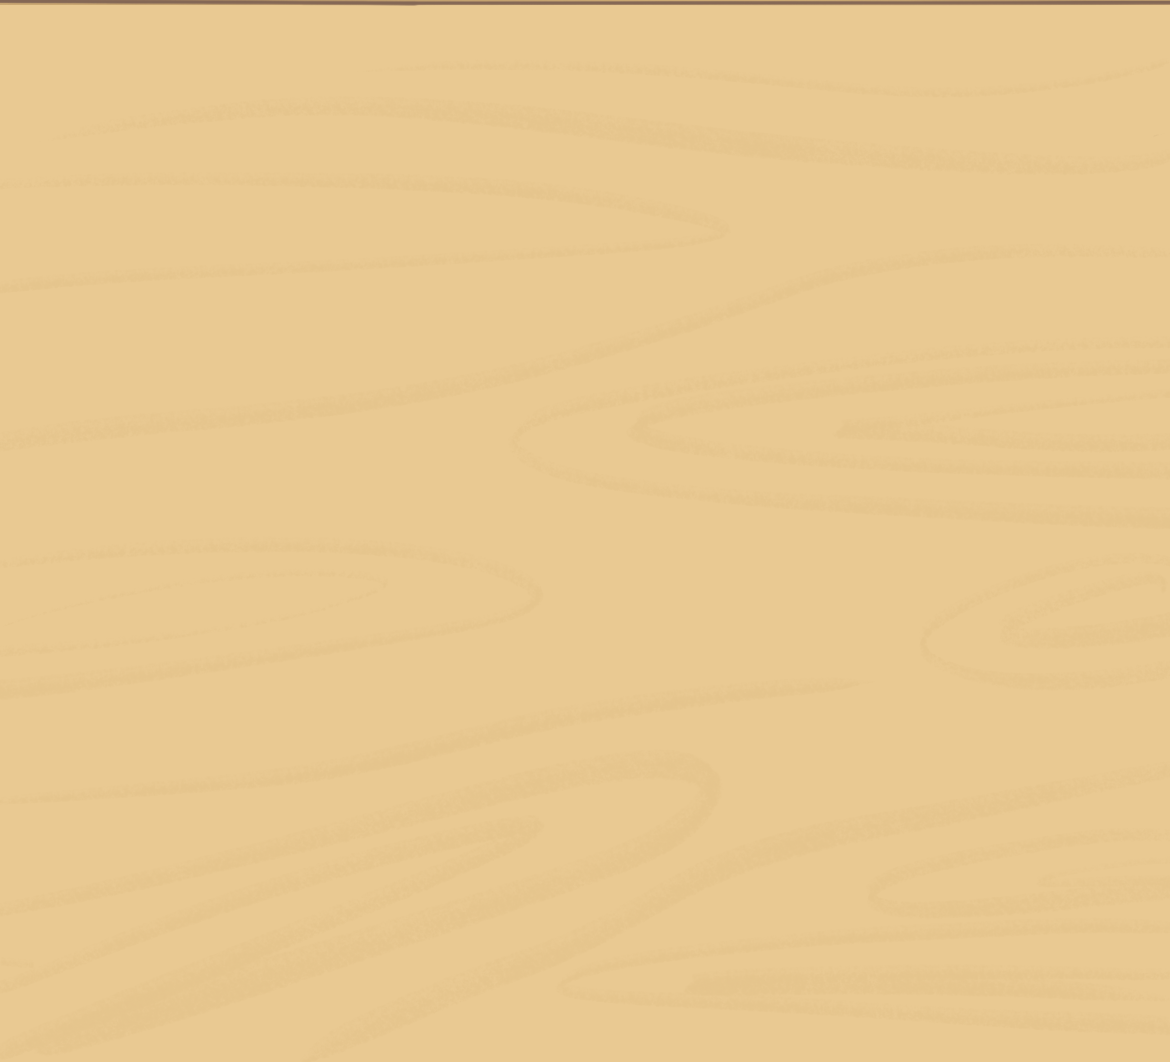
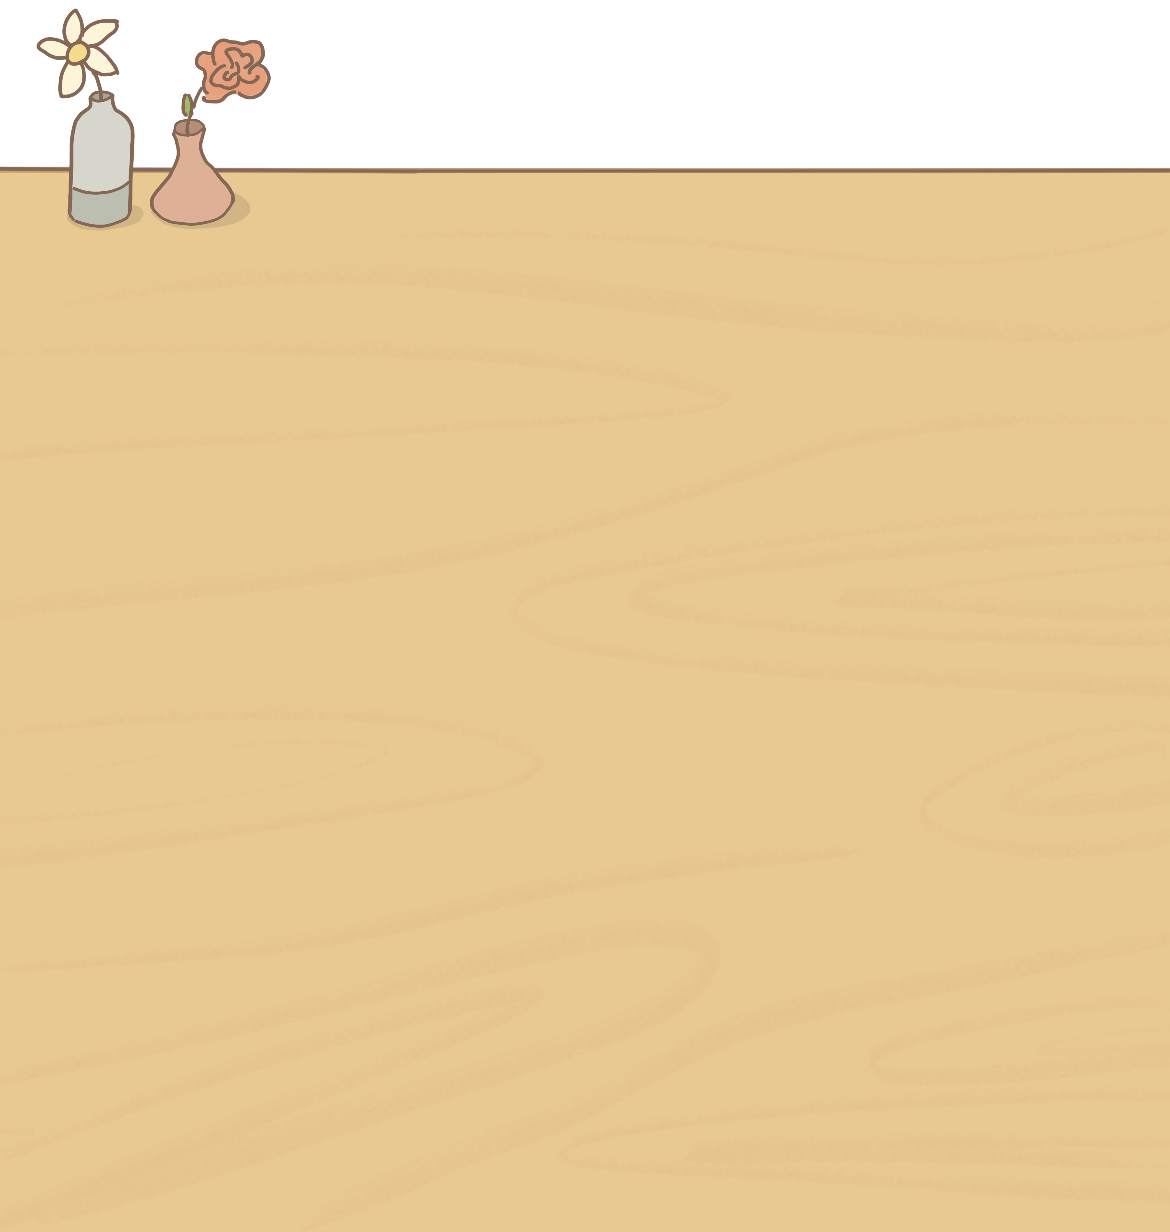
add decor

Changed region(s): [[0.0, 0.0, 1.0, 0.1864]]

diff --git a/styles.css b/styles.css
@@ -28,11 +28,30 @@ body {
   align-items: flex-start;
   flex: 1 1 35%;
   height: 35%;
+  background-image: url(wall.PNG);
+  background-size: cover;
+  justify-content: space-between;
 }
 
-#wall {
-  width: 100%;
-  object-fit: cover; 
+#background-left {
+  padding-top: 20px;
+  width: 160px;
+  z-index: 1;
+  flex: 0 1 160px;
+  min-width: 0;
+}
+
+#window {
+  width: 60%;
+  display: flex;
+  flex: 0 1;
+  align-self: center;
+  padding-bottom: 20px;
+}
+
+#cat-happy{
+  width: 166px;
+  height: 189px;
 }
 
 #counter-container {
@@ -42,11 +61,13 @@ body {
   flex: 0 1 40%;
   height: 40%;
   background: #f2c789;
+  z-index: 1;
 }
 
 #counter {
   width: 100%;
   object-fit: cover; 
+  margin-top: -60px;
 }
 
 #inventory {
@@ -57,6 +78,7 @@ body {
   align-items: center;
   gap: 16px;
   padding: 0 24px;
+  z-index: 2;
 }
 
 .inventory-slot {

diff --git a/index.html b/index.html
@@ -11,7 +11,11 @@
   <body>
     <main id="app" >
       <section id="wall-container">
-        <img id="wall" src="wall.PNG"/>
+       <img id="background-left" src="background-left.PNG"/>
+        <img id="window" src="window.PNG"/>
+       </div> 
+      
+
       </section>
       <section id="counter-container">
         <img id="counter" src="counter.PNG"/>
